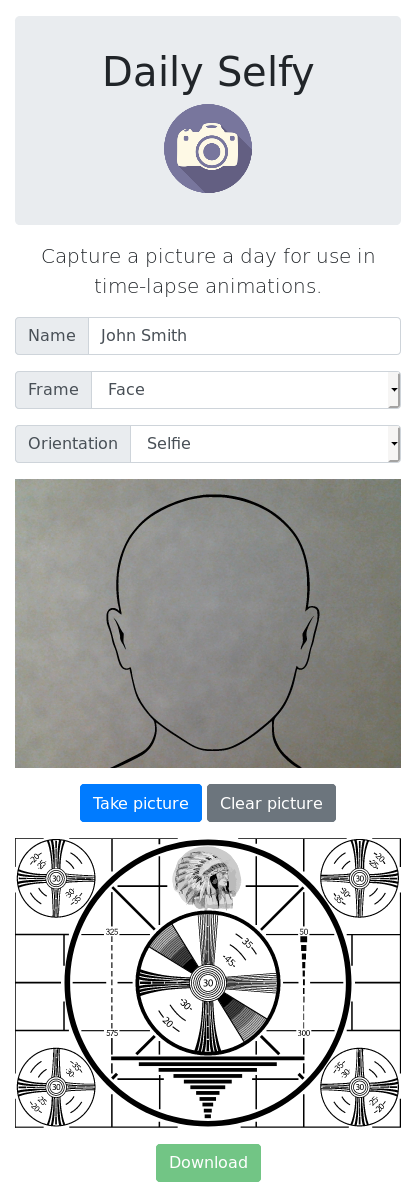
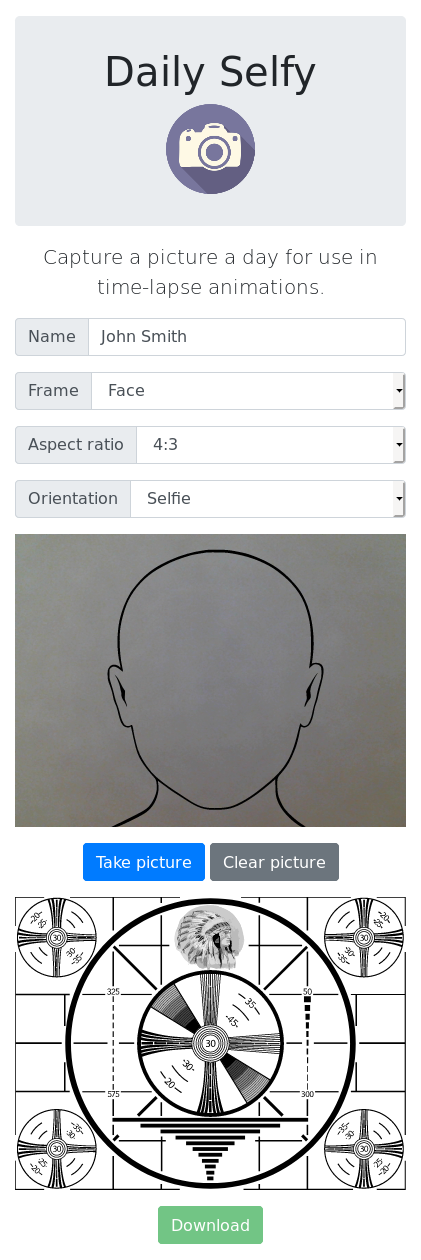
Configure Aspect Ratios

Changed region(s): [[0.0312, 0.0309, 0.9688, 0.9883], [0.25, 0.0309, 0.4062, 0.0927]]

diff --git a/js/index.js b/js/index.js
@@ -9,6 +9,9 @@ document.addEventListener("DOMContentLoaded", () => {
     const attributeDisabled = "disabled";
 
     const classHidden = "d-none";
+    const classRatio4by3 = "embed-responsive-4by3";
+    const classRatio16by9 = "embed-responsive-16by9";
+    const classRatio21by9 = "embed-responsive-21by9";
 
     const eventChange = "change";
     const eventClick = "click";
@@ -17,6 +20,7 @@ document.addEventListener("DOMContentLoaded", () => {
 
     const name = document.getElementById("name");
     const frame = document.getElementById("frame");
+    const ratio = document.getElementById("ratio");
     const orientation = document.getElementById("orientation");
     const overlay = document.getElementById("overlay");
     const stream = document.getElementById("stream");
@@ -56,6 +60,29 @@ document.addEventListener("DOMContentLoaded", () => {
     const messageUser = function(message) {
         if (message) {
             alert(message); // TODO: Change To Bootstrap Alert
+        }
+    };
+
+    const ratioSet = function() {
+        const embeddedItems = document.getElementsByClassName("embed-responsive");
+        for (const embeddedItem of embeddedItems) {
+            embeddedItem.classList.remove(classRatio4by3);
+            embeddedItem.classList.remove(classRatio16by9);
+            embeddedItem.classList.remove(classRatio21by9);
+            switch (ratio.value) {
+                case "4by3":
+                    embeddedItem.classList.add(classRatio4by3);
+                    break;
+                case "16by9":
+                    embeddedItem.classList.add(classRatio16by9);
+                    break;
+                case "21by9":
+                    embeddedItem.classList.add(classRatio21by9);
+                    break;
+                default:
+                    // Do Nothing
+                    break;
+            }
         }
     };
 
@@ -111,9 +138,8 @@ document.addEventListener("DOMContentLoaded", () => {
             output.setAttribute(attributeSource, canvas.toDataURL("image/png"));
         } else {
             canvas.classList.remove(classHidden);
-            canvas.setAttribute(attributeWidth, 0);
-            canvas.setAttribute(attributeHeight, 0);
-            canvas.getContext("2d").drawImage(null, 0, 0, 0, 0);
+            canvas.removeAttribute(attributeWidth);
+            canvas.removeAttribute(attributeHeight);
             output.removeAttribute(attributeSource);
         }
     };
@@ -132,6 +158,10 @@ document.addEventListener("DOMContentLoaded", () => {
                 // Do Nothing
                 break;
         }
+    });
+
+    ratio.addEventListener(eventChange, () => {
+        ratioSet();
     });
 
     orientation.addEventListener(eventChange, () => {
@@ -185,6 +215,7 @@ document.addEventListener("DOMContentLoaded", () => {
 
     toggleInputs(false);
     toggleResults(false);
+    ratioSet();
     cameraEnable();
 
 });

diff --git a/index.html b/index.html
@@ -40,6 +40,16 @@
         </div>
         <div class="input-group">
             <div class="input-group-prepend">
+                <span class="input-group-text">Aspect ratio</span>
+            </div>
+            <select id="ratio" class="form-control">
+                <option value="4by3">4:3</option>
+                <option value="16by9">16:9</option>
+                <option value="21by9">21:9</option>
+            </select>
+        </div>
+        <div class="input-group">
+            <div class="input-group-prepend">
                 <span class="input-group-text">Orientation</span>
             </div>
             <select id="orientation" class="form-control">
@@ -49,10 +59,10 @@
             </select>
         </div>
         <div class="input-group">
-            <div class="embed-responsive embed-responsive-4by3 position-absolute">
+            <div class="embed-responsive position-absolute">
                 <img id="overlay" class="embed-responsive-item" src="./img/overlay-none.png" alt="Overlay" />
             </div>
-            <div class="embed-responsive embed-responsive-4by3">
+            <div class="embed-responsive">
                 <video id="stream" class="embed-responsive-item" poster="./img/standby.svg" autoplay="true"></video>
                 <canvas id="canvas" class="embed-responsive-item"></canvas>
             </div>
@@ -62,7 +72,7 @@
             <button id="clear" class="btn btn-secondary" type="button">Clear picture</button>
         </div>
         <div class="input-group">
-            <div class="embed-responsive embed-responsive-4by3">
+            <div class="embed-responsive">
                 <img id="standby" class="embed-responsive-item" src="./img/standby.svg" alt="Standby" />
                 <img id="output" class="embed-responsive-item" alt="Output" />
             </div>
